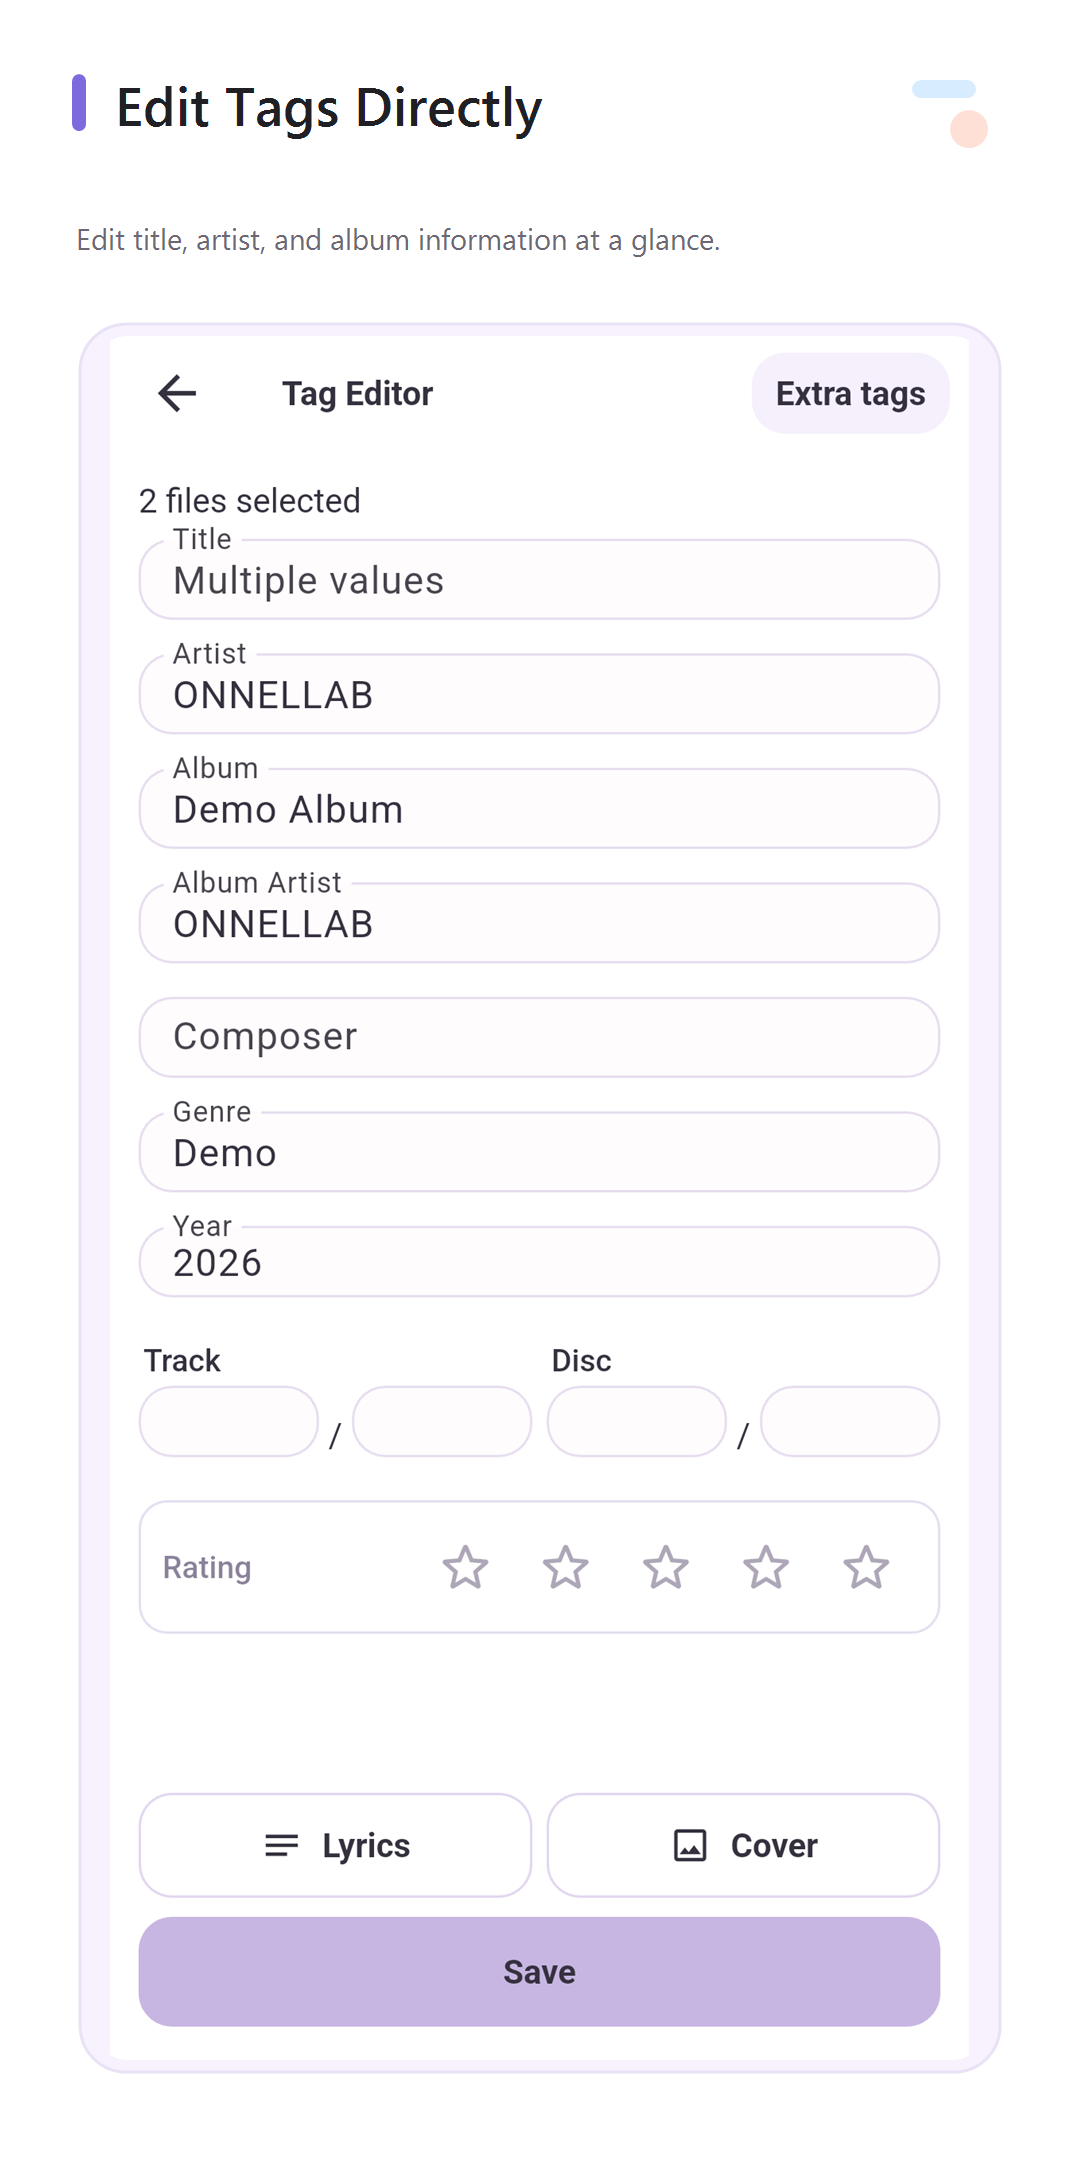
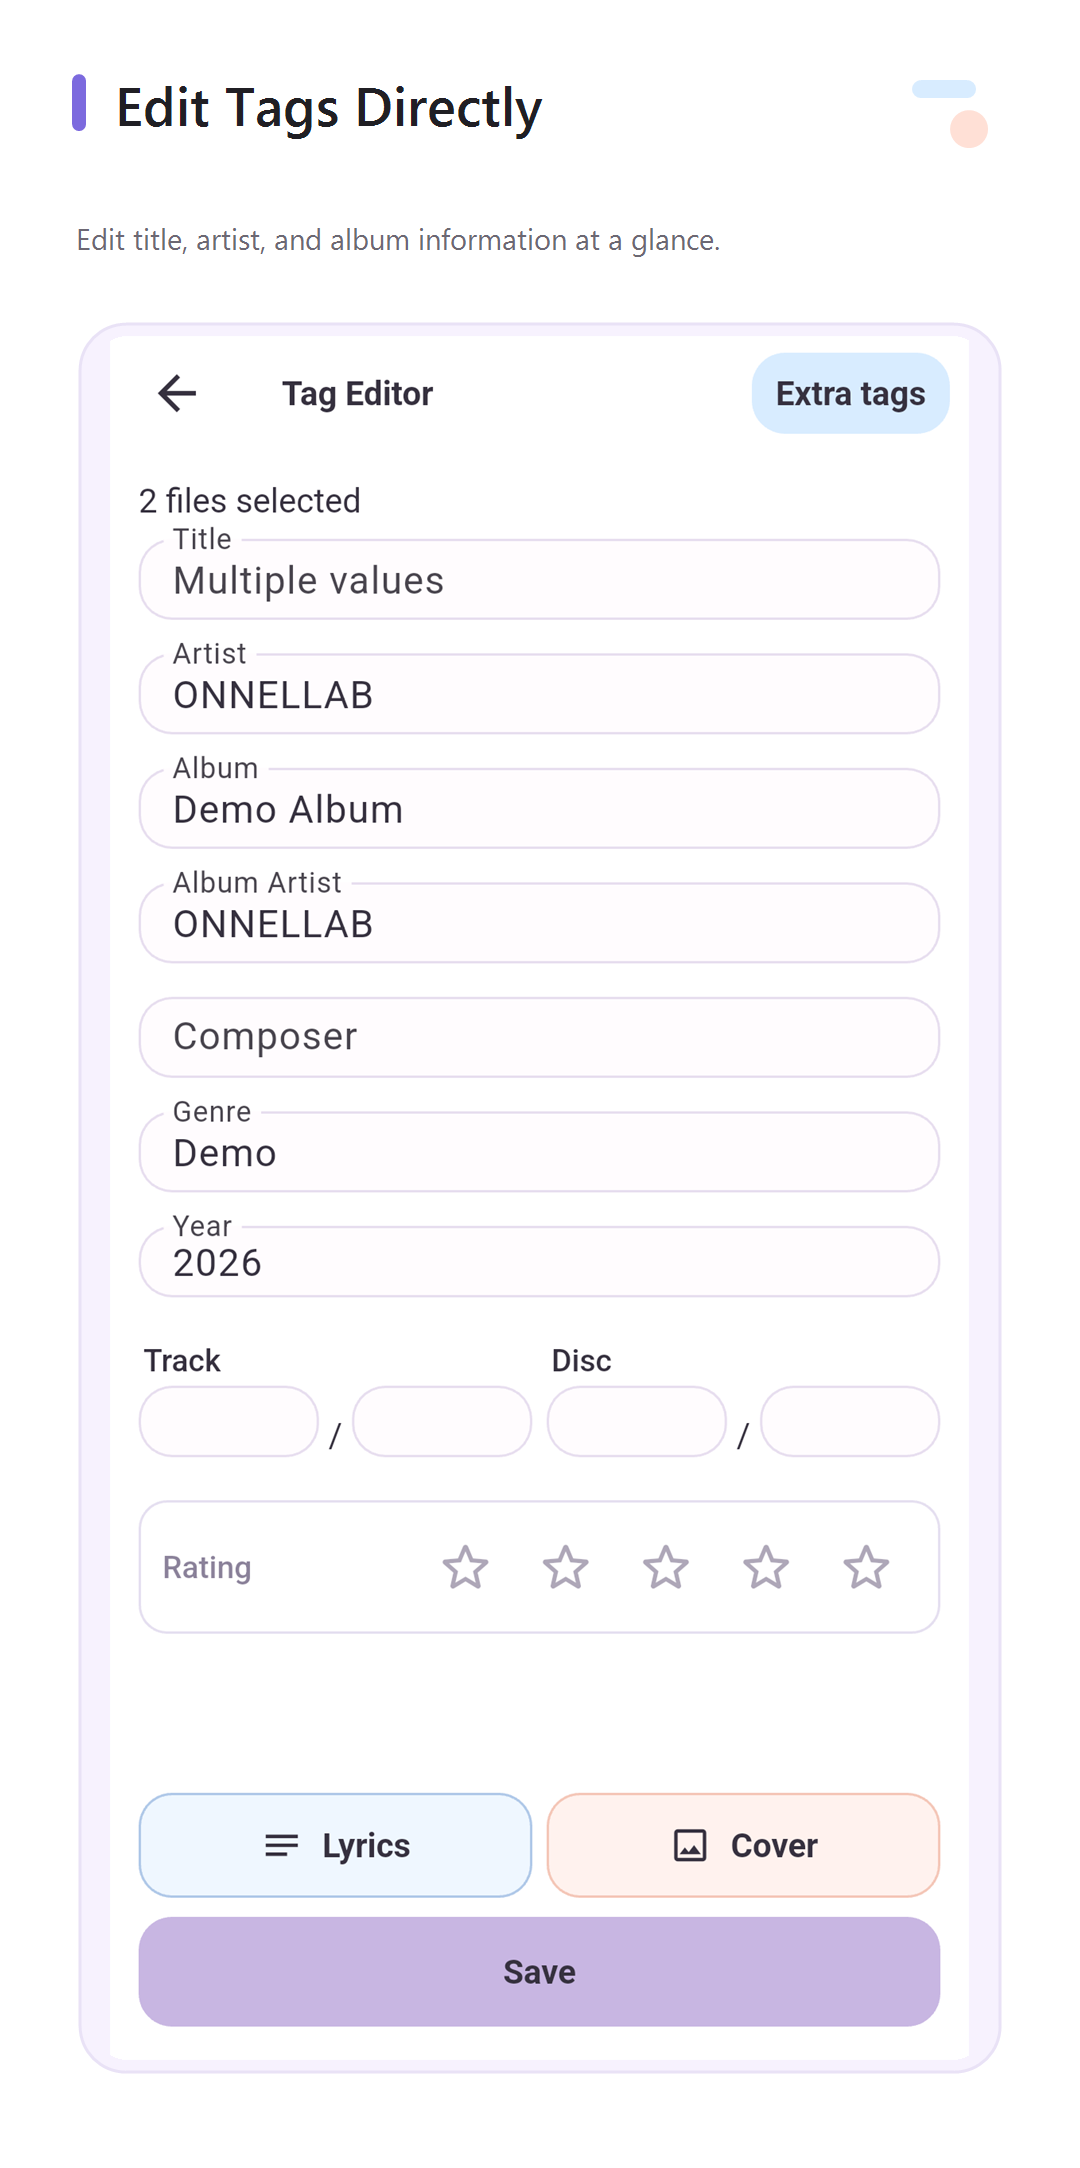
Update TagWeaver landing screenshots and labels

Changed region(s): [[0.7028, 0.1545, 0.8861, 0.2163], [0.4889, 0.8344, 0.5194, 0.8653]]

diff --git a/src/lib/products.ts b/src/lib/products.ts
@@ -67,6 +67,7 @@ export type ProductIndexItem = {
   screenshotPath?: string;
   href: string;
   privacy: string;
+  hasStoreListing: boolean;
   accent: ProductAccent;
 };
 
@@ -161,6 +162,7 @@ export function getProductIndexItems(locale: Locale): ProductIndexItem[] {
       screenshotPath: getScreenshotRoutePaths(source, locale)[0],
       href: locale === 'en' ? `/apps/${source.slug}/` : `/apps/${source.slug}/ko/`,
       privacy: source.meta.privacy,
+      hasStoreListing: Boolean(source.meta.appstore || source.meta.googleplay),
       accent: productAccent(source)
     };
   });